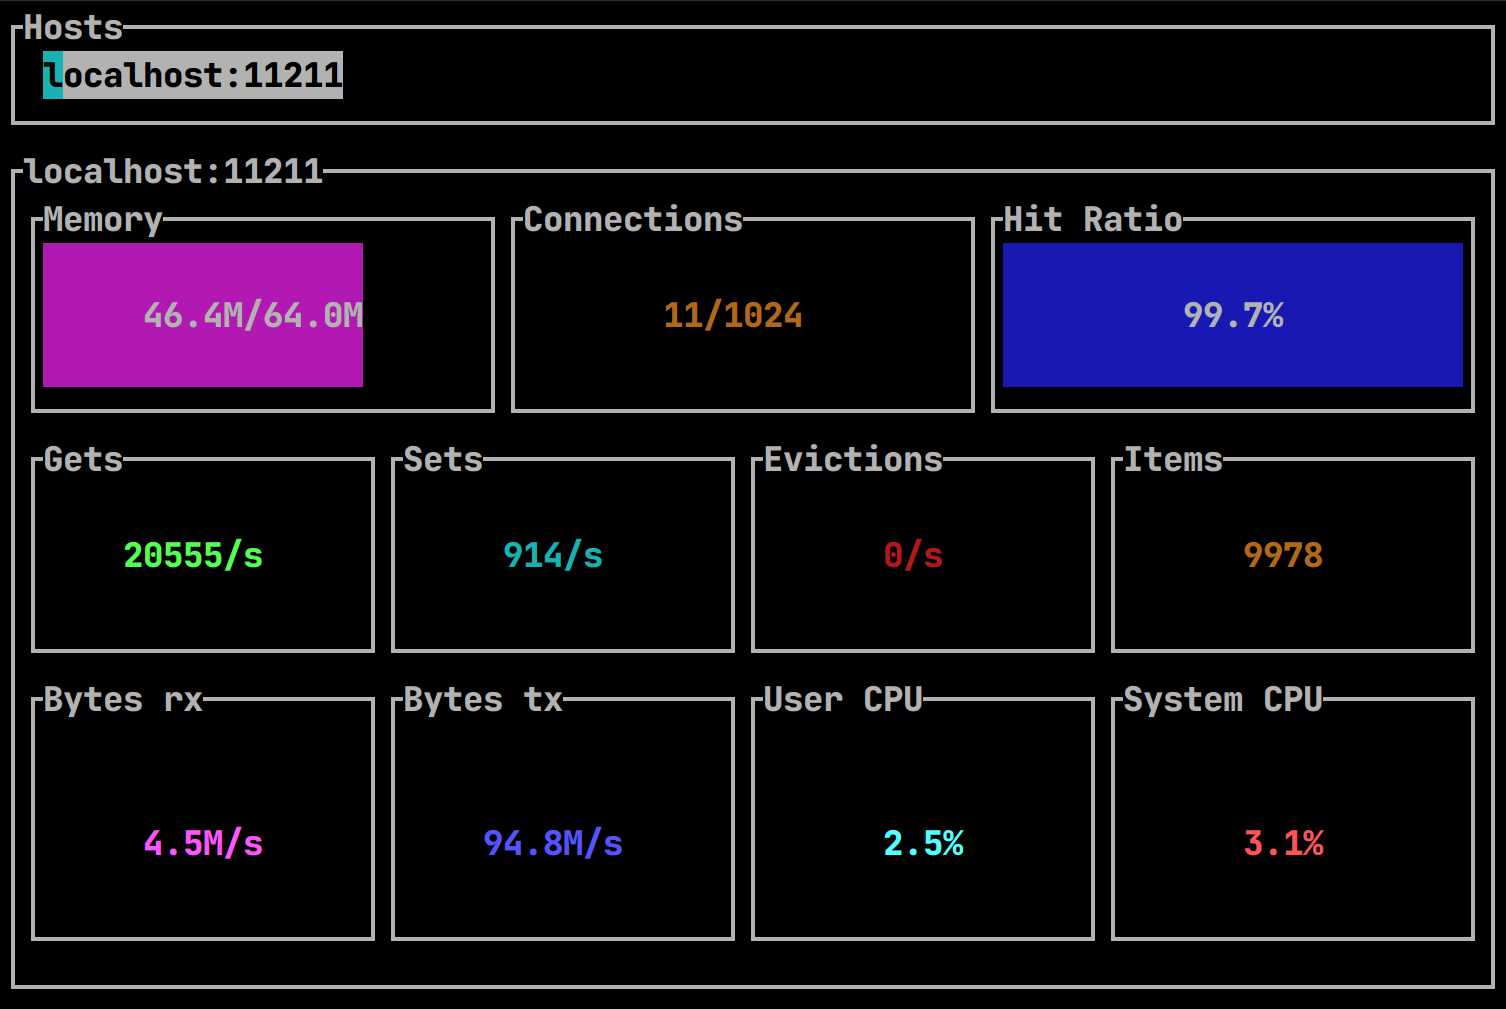
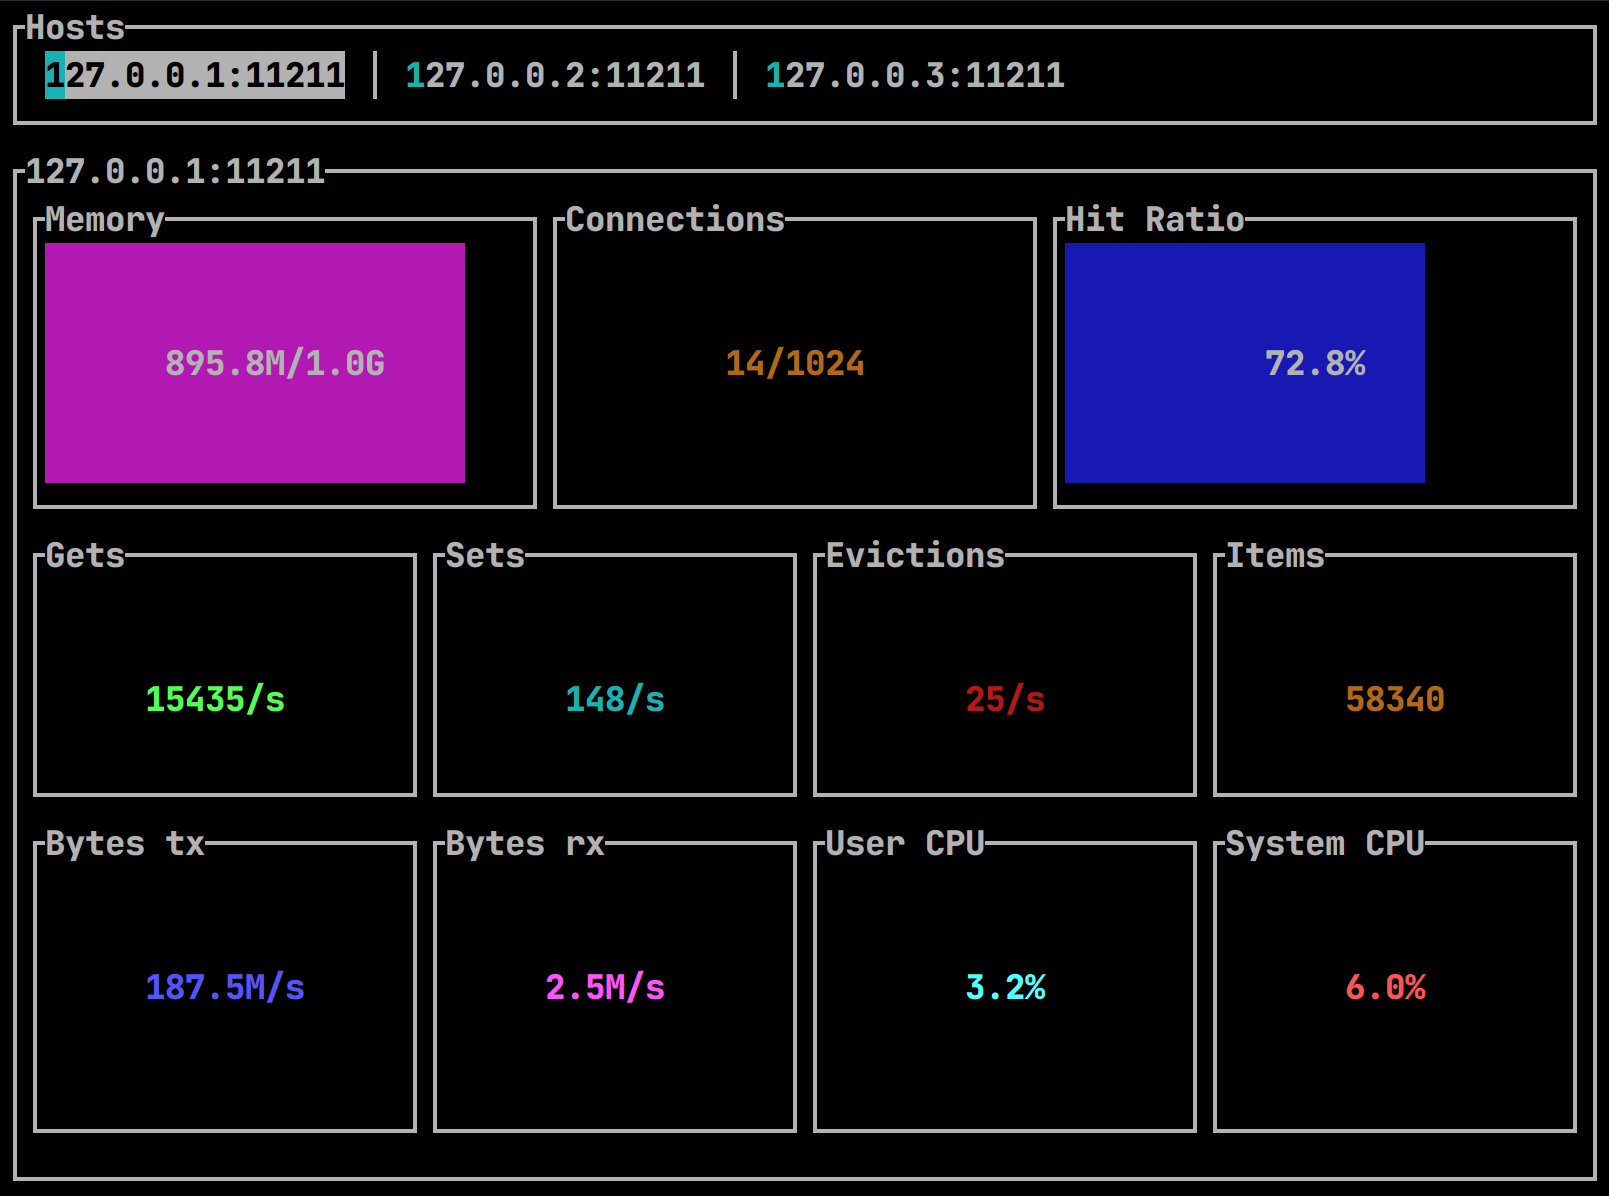
Move bytes tx under gets and bytes rx under sets

diff --git a/mtop/src/ui/core.rs b/mtop/src/ui/core.rs
@@ -180,11 +180,11 @@ where
     let items = items_gauge(delta);
     f.render_widget(items, gauge_row_2[3]);
 
-    let bytes_read = bytes_read_gauge(delta, &units);
-    f.render_widget(bytes_read, gauge_row_3[0]);
-
     let bytes_written = bytes_written_gauge(delta, &units);
-    f.render_widget(bytes_written, gauge_row_3[1]);
+    f.render_widget(bytes_written, gauge_row_3[0]);
+
+    let bytes_read = bytes_read_gauge(delta, &units);
+    f.render_widget(bytes_read, gauge_row_3[1]);
 
     let user_cpu = user_cpu_gauge(delta);
     f.render_widget(user_cpu, gauge_row_3[2]);
